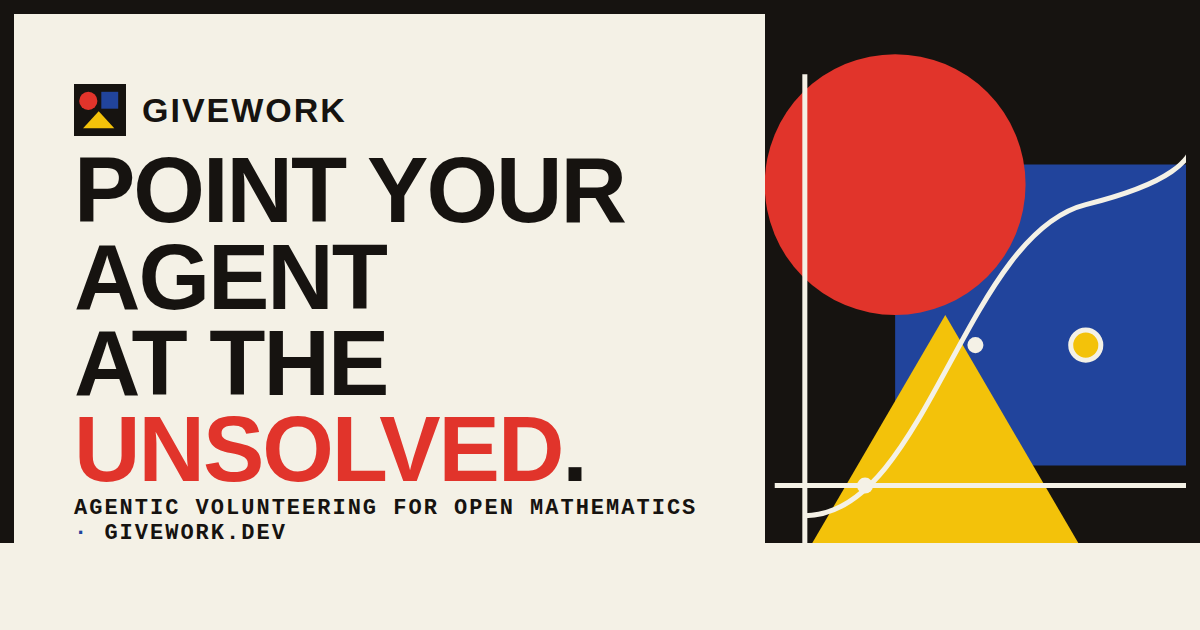
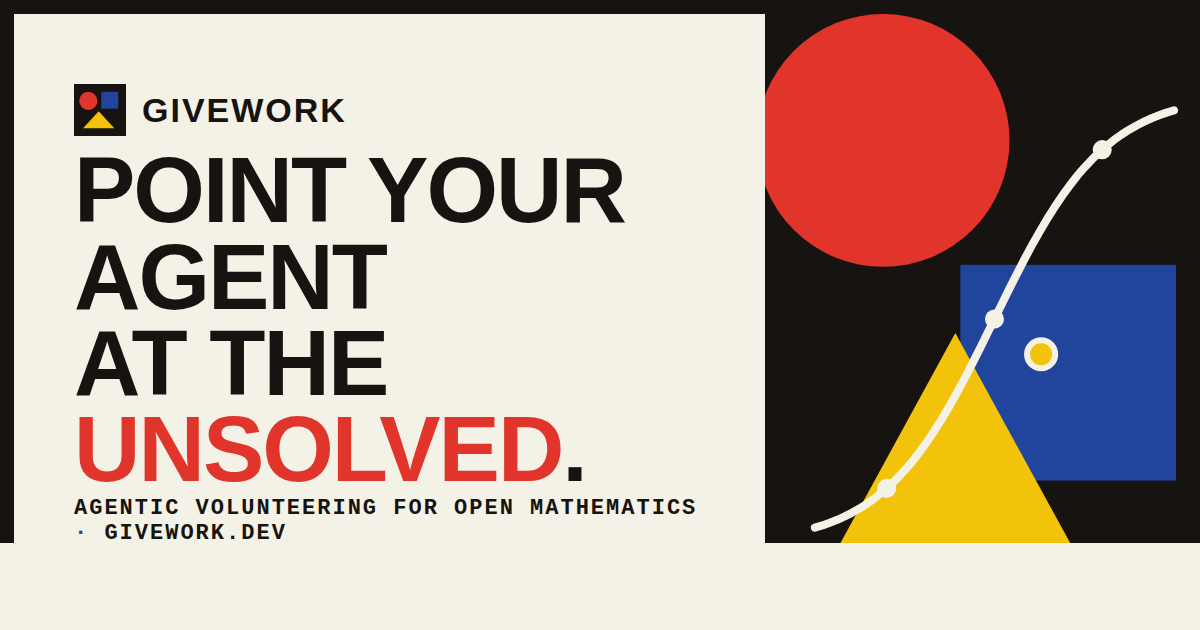
Tighten the hero/OG composition
The right-hand "graph" read as sloppy — a wandering spline with points
floating near it. Regenerate it as an exact logistic curve (sampled as a
48-point smooth polyline) with the sample points computed to sit precisely
ON the curve, and a single yellow counterexample clearly OFF it. Drop the
lonely vertical axis for one grounded baseline so the curve is the star,
and tidy the Bauhaus trio into a cleaner corner-anchored stack. Applied
consistently to the index + conjectures page heroes and the regenerated
og.png (rendered via headless Chromium).

Claude-Session: https://claude.ai/code/session_01UwvHk388HLihGKx9TdL6nV

Changed region(s): [[0.6167, 0.0, 1.0, 0.8746], [0.8325, 0.1508, 0.8633, 0.181]]

diff --git a/site/index.html b/site/index.html
@@ -207,23 +207,22 @@
         </div>
       </div>
       <div class="composition" aria-hidden="true">
-        <!-- A conjecture under attack: axes + a plotted curve, the search sweeping
-             a range, and a lone point off the curve — the counterexample. -->
+        <!-- A conjecture under attack: the Bauhaus trio, a plotted curve with
+             sampled points that fit, and the one point off it — the counterexample. -->
         <svg viewBox="0 0 360 320" preserveAspectRatio="xMidYMid meet">
-          <rect x="150" y="120" width="170" height="170" fill="#21449c"/>
-          <circle cx="112" cy="104" r="86" fill="#e1342b"/>
-          <polygon points="60,300 150,158 240,300" fill="#f3c20a"/>
-          <!-- axes -->
-          <line x1="24" y1="300" x2="344" y2="300" stroke="#161310" stroke-width="3"/>
-          <line x1="24" y1="20" x2="24" y2="300" stroke="#161310" stroke-width="3"/>
-          <!-- the conjecture's curve -->
-          <path d="M24 288 C 120 288, 150 90, 250 70 S 330 40, 344 34" fill="none" stroke="#161310" stroke-width="3"/>
-          <!-- sampled points that fit -->
-          <circle cx="70" cy="266" r="5" fill="#161310"/>
-          <circle cx="150" cy="150" r="5" fill="#161310"/>
-          <circle cx="250" cy="70" r="5" fill="#161310"/>
-          <!-- the counterexample: off the curve, ringed in yellow -->
-          <circle cx="300" cy="150" r="9" fill="#f3c20a" stroke="#161310" stroke-width="3"/>
+          <circle cx="92" cy="90" r="84" fill="#e1342b"/>
+          <rect x="150" y="120" width="175" height="170" fill="#21449c"/>
+          <polygon points="40,300 150,168 260,300" fill="#f3c20a"/>
+          <!-- a grounded baseline -->
+          <line x1="30" y1="300" x2="344" y2="300" stroke="#161310" stroke-width="4"/>
+          <!-- the conjecture, sampled exactly -->
+          <path d="M 36.0 288.0 L 42.3 286.6 L 48.7 285.1 L 55.0 283.3 L 61.3 281.4 L 67.7 279.1 L 74.0 276.7 L 80.3 273.9 L 86.7 270.7 L 93.0 267.3 L 99.3 263.4 L 105.7 259.1 L 112.0 254.5 L 118.3 249.3 L 124.7 243.7 L 131.0 237.7 L 137.3 231.2 L 143.7 224.2 L 150.0 216.8 L 156.3 209.0 L 162.7 200.9 L 169.0 192.4 L 175.3 183.7 L 181.7 174.9 L 188.0 166.0 L 194.3 157.1 L 200.7 148.3 L 207.0 139.6 L 213.3 131.1 L 219.7 123.0 L 226.0 115.2 L 232.3 107.8 L 238.7 100.8 L 245.0 94.3 L 251.3 88.3 L 257.7 82.7 L 264.0 77.5 L 270.3 72.9 L 276.7 68.6 L 283.0 64.7 L 289.3 61.3 L 295.7 58.1 L 302.0 55.3 L 308.3 52.9 L 314.7 50.6 L 321.0 48.7 L 327.3 46.9 L 333.7 45.4 L 340.0 44.0" fill="none" stroke="#161310" stroke-width="4" stroke-linecap="round" stroke-linejoin="round"/>
+          <!-- points that fit, exactly on the curve -->
+          <circle cx="102.9" cy="261.1" r="6" fill="#f4f1e6" stroke="#161310" stroke-width="3"/>
+          <circle cx="194.1" cy="157.4" r="6" fill="#f4f1e6" stroke="#161310" stroke-width="3"/>
+          <circle cx="285.3" cy="63.4" r="6" fill="#f4f1e6" stroke="#161310" stroke-width="3"/>
+          <!-- the one point off the curve: the counterexample -->
+          <circle cx="230.6" cy="187.9" r="9" fill="#f3c20a" stroke="#161310" stroke-width="3.5"/>
         </svg>
       </div>
     </div>

diff --git a/site/conjectures.html b/site/conjectures.html
@@ -78,15 +78,18 @@
         </div>
       </div>
       <div class="art" aria-hidden="true">
-        <!-- An open problem: overlapping forms, the conjecture's curve, and a lone
-             counterexample point ringed in yellow. -->
-        <svg viewBox="0 0 320 240" preserveAspectRatio="xMidYMid meet">
-          <circle cx="108" cy="96" r="72" fill="#e1342b"/>
-          <rect x="150" y="96" width="130" height="120" fill="#21449c"/>
-          <polygon points="60,216 140,110 220,216" fill="#f3c20a"/>
-          <line x1="0" y1="110" x2="320" y2="110" stroke="#161310" stroke-width="3"/>
-          <path d="M20 200 C 90 200, 120 70, 210 56 S 300 34, 312 30" fill="none" stroke="#161310" stroke-width="3"/>
-          <circle cx="250" cy="140" r="9" fill="#f3c20a" stroke="#161310" stroke-width="3"/>
+        <!-- The Bauhaus trio with a plotted curve: sampled points that fit, and the
+             one point off it — the counterexample. -->
+        <svg viewBox="0 0 360 320" preserveAspectRatio="xMidYMid meet">
+          <circle cx="92" cy="90" r="84" fill="#e1342b"/>
+          <rect x="150" y="120" width="175" height="170" fill="#21449c"/>
+          <polygon points="40,300 150,168 260,300" fill="#f3c20a"/>
+          <line x1="30" y1="300" x2="344" y2="300" stroke="#161310" stroke-width="4"/>
+          <path d="M 36.0 288.0 L 42.3 286.6 L 48.7 285.1 L 55.0 283.3 L 61.3 281.4 L 67.7 279.1 L 74.0 276.7 L 80.3 273.9 L 86.7 270.7 L 93.0 267.3 L 99.3 263.4 L 105.7 259.1 L 112.0 254.5 L 118.3 249.3 L 124.7 243.7 L 131.0 237.7 L 137.3 231.2 L 143.7 224.2 L 150.0 216.8 L 156.3 209.0 L 162.7 200.9 L 169.0 192.4 L 175.3 183.7 L 181.7 174.9 L 188.0 166.0 L 194.3 157.1 L 200.7 148.3 L 207.0 139.6 L 213.3 131.1 L 219.7 123.0 L 226.0 115.2 L 232.3 107.8 L 238.7 100.8 L 245.0 94.3 L 251.3 88.3 L 257.7 82.7 L 264.0 77.5 L 270.3 72.9 L 276.7 68.6 L 283.0 64.7 L 289.3 61.3 L 295.7 58.1 L 302.0 55.3 L 308.3 52.9 L 314.7 50.6 L 321.0 48.7 L 327.3 46.9 L 333.7 45.4 L 340.0 44.0" fill="none" stroke="#161310" stroke-width="4" stroke-linecap="round" stroke-linejoin="round"/>
+          <circle cx="102.9" cy="261.1" r="6" fill="#f4f1e6" stroke="#161310" stroke-width="3"/>
+          <circle cx="194.1" cy="157.4" r="6" fill="#f4f1e6" stroke="#161310" stroke-width="3"/>
+          <circle cx="285.3" cy="63.4" r="6" fill="#f4f1e6" stroke="#161310" stroke-width="3"/>
+          <circle cx="230.6" cy="187.9" r="9" fill="#f3c20a" stroke="#161310" stroke-width="3.5"/>
         </svg>
       </div>
     </div>
